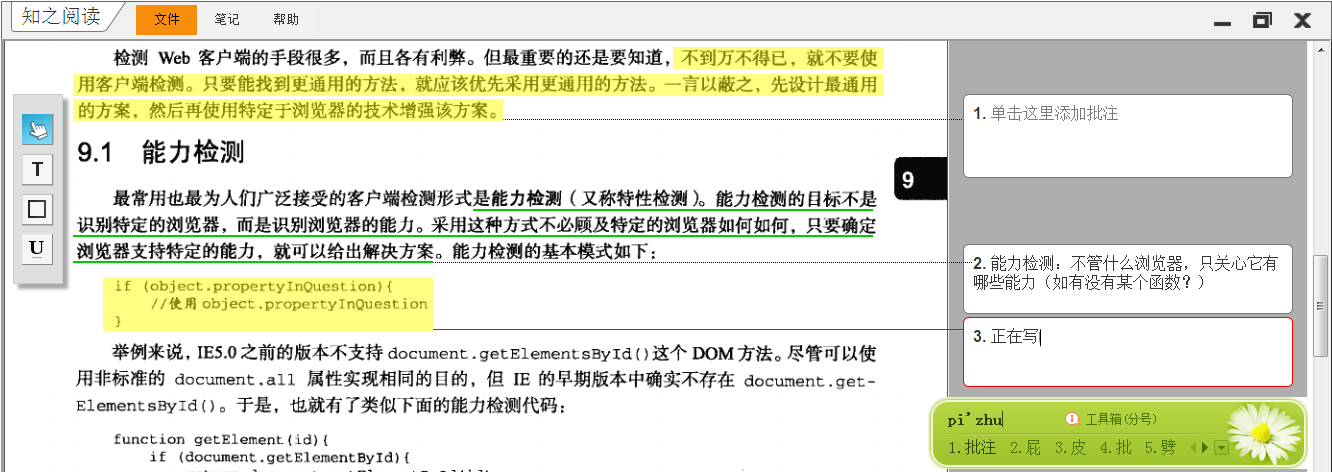
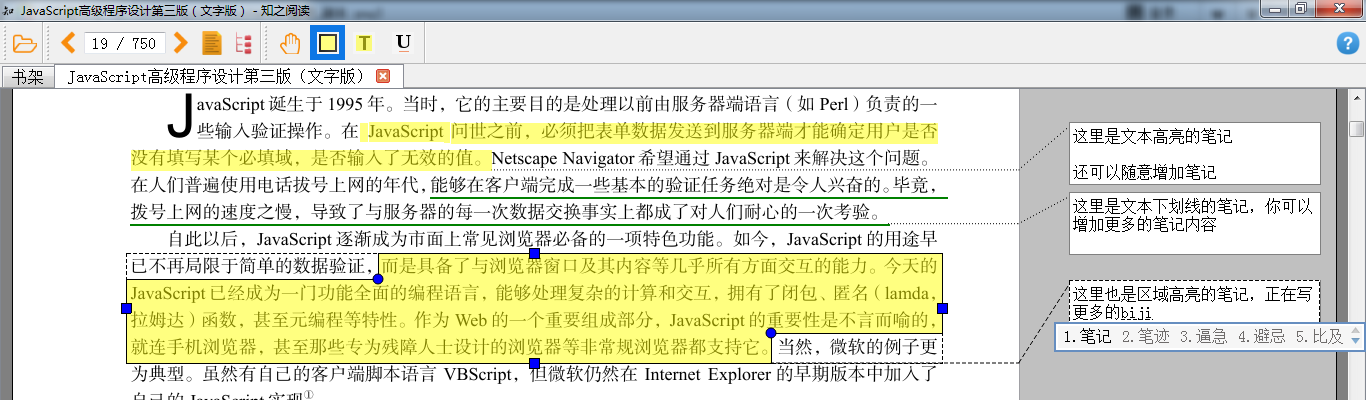
按照1.2.0的界面修改了图片

diff --git a/index.html b/index.html
@@ -35,13 +35,20 @@
 </script>
 
 <script>
-var _hmt = _hmt || [];
-(function() {
-  var hm = document.createElement("script");
-  hm.src = "//hm.baidu.com/hm.js?bff6f9682e2bca70fa7ecac6cb2c255d";
-  var s = document.getElementsByTagName("script")[0]; 
-  s.parentNode.insertBefore(hm, s);
-})();
+var downloadLink1 = document.getElementById('download_free');
+addListener(downloadLink1, 'click', function() {
+  ga('send', 'event', 'download', 'free', '0');
+});
+
+var downloadLink2 = document.getElementById('download_vip_10');
+addListener(downloadLink2, 'click', function() {
+  ga('send', 'event', 'download', 'vip', '10');
+});
+
+function addListener(element, type, callback) {
+ if (element.addEventListener) element.addEventListener(type, callback);
+ else if (element.attachEvent) element.attachEvent('on' + type, callback);
+}
 </script>
 
   </head>
@@ -56,7 +63,7 @@ var _hmt = _hmt || [];
         <h1>积累、整理、使用知识</h1>
         <p>基于读书笔记的知识管理软件</p>
         
-        <img src="images/reading.jpg" class="img-responsive">    
+        <img src="images/reading.png" class="img-responsive">    
 
         </div>
   
@@ -73,13 +80,11 @@ var _hmt = _hmt || [];
         
         <p>用鼠标一点一划，即可标注打动你的字句</p>
         <p>你标注的内容自动汇总到笔记里，不再散落天涯</p>
-        <p>支持<mark>高亮</mark>，<u>下划线</u>，<mark>区域高亮</mark>等标注工具<small>，以后增加更多...</small></p>
-        <p class="small">说明：目前仅支持区域高亮</p>
-        
+        <p>支持<mark>高亮</mark>，<u>下划线</u>，<mark>区域高亮</mark>等标注工具<small>，以后增加更多...</small></p>       
         
       </div>
       <div class="col-md-7">
-      <img src="images/reading-left.jpg" class="img-responsive">
+      <img src="images/left.png" class="img-responsive">
       </div>
       </div>
       </div>
@@ -89,7 +94,7 @@ var _hmt = _hmt || [];
       <div class="container">   
       <div class="row">
       <div class="col-md-7">
-        <img src="images/reading-right_meitu_1.jpg" class="img-responsive">
+        <img src="images/right.png" class="img-responsive">
         </div>
         <div class="col-md-5 my-padding-right">
         <h2 class="text-left">右边顺手写批注</h2>
@@ -108,15 +113,15 @@ var _hmt = _hmt || [];
        <div class="container">   
             <div class="row">
       
-        <div class="col-md-5 my-padding-left">
+        <div class="col-md-4 my-padding-left">
         <h2 class="text-left">自动汇总成笔记</h2>
         <p>你标注的重点，你批注的心得，知之阅读按书名自动汇总成笔记，存放在独立的笔记本文件里</p>
         <p>点击标注，就可以打开标注所在的书本，自动跳到标注所在的页面</p>
         
         </div>
         
-        <div class="col-md-7">
-        <img src="images/notes.jpg" class="img-responsive my-padding-right">
+        <div class="col-md-8">
+        <img src="images/notes.png" class="img-responsive">
         </div>
       </div>
     </div> 
@@ -167,7 +172,8 @@ var _hmt = _hmt || [];
               <li class="list-group-item"> - </small></li>
               <li class="list-group-item"><h3 class="panel-title price">0 <span class="price-month">元/月</span> </h3></li>
               <!--li class="list-group-item"><a href="./download.html" class="btn btn-primary btn-lg">马上下载</a></li-->
-              <li class="list-group-item"><a href="http://pan.baidu.com/s/1hqgyAYK" class="btn btn-primary btn-lg">马上下载</a></li>
+              <li  class="list-group-item"><a id="download_free" href="http://pan.baidu.com/s/1hqgyAYK" class="btn btn-primary btn-lg"
+              >马上下载</a></li>
               
             </ul>
           </div>          
@@ -190,8 +196,8 @@ var _hmt = _hmt || [];
               </small></li>
               <li class="list-group-item"><small>未来</small>更多高级功能</li>
               <li class="list-group-item"><h3 class="panel-title price">10 <span class="price-month">元/月</span> </h3></li>
-              <li class="list-group-item"><a href="./download_vip_10.html" class="btn btn-danger btn-lg" 
-              onClick="_gaq.push(['_trackEvent', 'vip', '10']);">马上下载</a></li>
+              <li class="list-group-item"><a id="download_vip_10" href="./download_vip_10.html" class="btn btn-danger btn-lg" 
+              >马上下载</a></li>
             </ul>
           </div>          
         </div>

diff --git a/stylesheets/starter-template.css b/stylesheets/starter-template.css
@@ -15,7 +15,7 @@ font-size: 18px;
 #splash{
 background: #3592dd;
 color:white;
- padding: 100px 0 0 0;
+ padding: 50px 0 0 0;
 }
 
 #splash-2{
